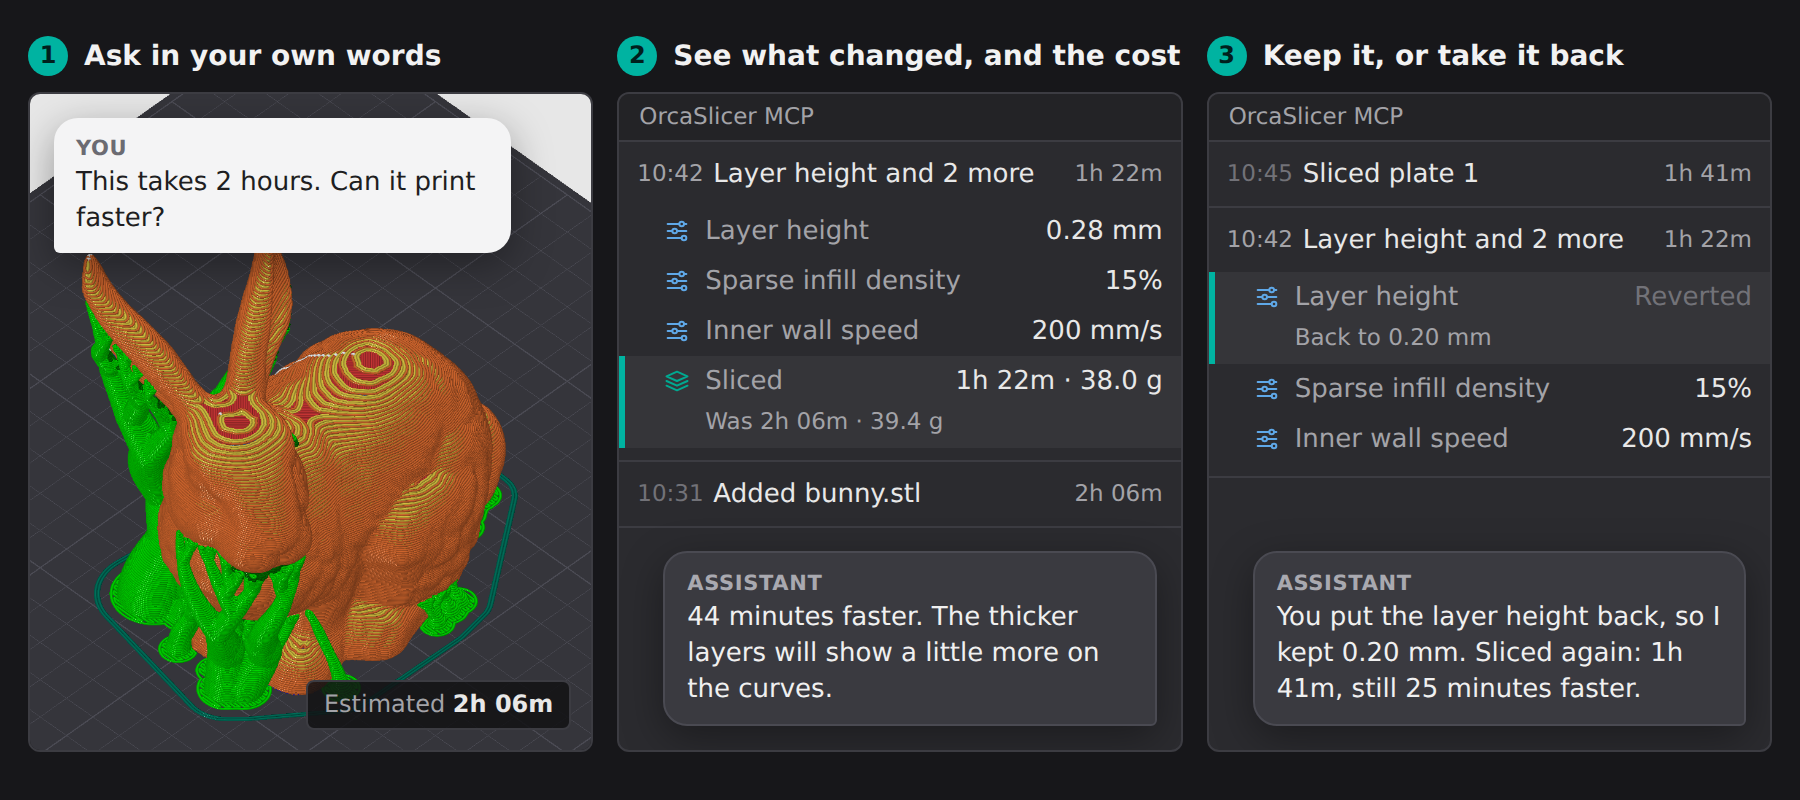
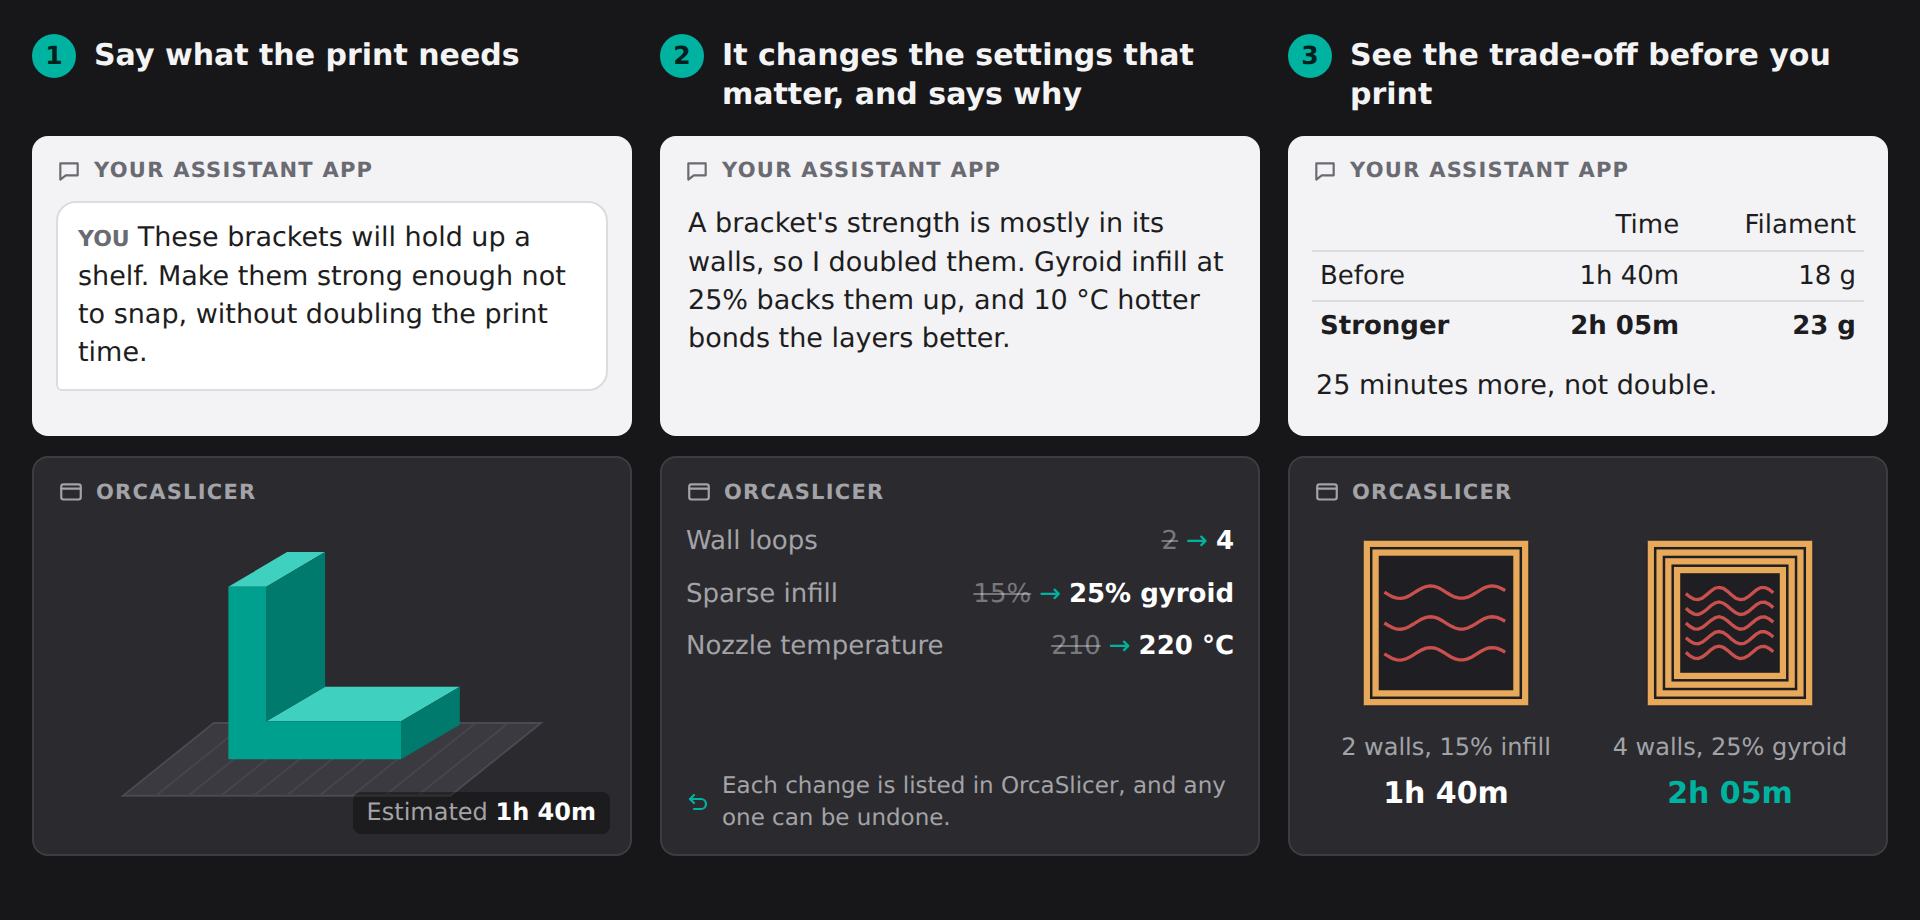
doc: second-pass story strip: two lanes, a real goal, the trade-off

diff --git a/README.md b/README.md
@@ -13,9 +13,9 @@
   <a href="LICENSE.txt"><img alt="License: AGPL-3.0" src="https://img.shields.io/badge/license-AGPL--3.0-555"></a>
 </p>
 
-<p align="center"><img src="doc/images/readme/story.png" alt="Three steps. 1: you ask 'This takes 2 hours. Can it print faster?' over the sliced model. 2: the panel in OrcaSlicer lists the changes (layer height 0.28 mm, sparse infill 15%, inner wall speed 200 mm/s) and the new slice, 1h 22m, was 2h 06m. 3: you revert the layer height, and the assistant keeps your choice and re-slices: 1h 41m."></p>
+<p align="center"><img src="doc/images/readme/story.png" alt="Three steps, each showing your assistant app above and OrcaSlicer below. 1: in the assistant app you write that the brackets will hold up a shelf and must not snap, without doubling the print time; OrcaSlicer shows the bracket, estimated 1h 40m. 2: the assistant explains that a bracket's strength is mostly in its walls; in OrcaSlicer wall loops go from 2 to 4, sparse infill from 15% to 25% gyroid, nozzle temperature from 210 to 220 °C, each change listed and undoable. 3: the assistant compares the two slices, 1h 40m and 18 g before, 2h 05m and 23 g stronger: 25 minutes more, not double."></p>
 
-This is the **OrcaSlicer MCP build**: [OrcaSlicer](https://github.com/OrcaSlicer/OrcaSlicer) 2.5.0 with two additions. A local API lets an AI assistant change settings, load and slice models, and read back the result, through the [orcaslicer-mcp](https://github.com/MaxEllis/orcaslicer-mcp) server. A panel beside the 3D view lists every change it makes, with a way to undo each one. Everything else is OrcaSlicer, rebuilt from the upstream release, and it uses your existing printers and presets.
+This is the **OrcaSlicer MCP build**: [OrcaSlicer](https://github.com/OrcaSlicer/OrcaSlicer) 2.5.0 with two additions. A local API lets an AI assistant, which you talk to in your usual AI app, change settings, load and slice models, and read back the result, through the [orcaslicer-mcp](https://github.com/MaxEllis/orcaslicer-mcp) server. A panel beside the 3D view lists every change it makes, with a way to undo each one. Everything else is OrcaSlicer, rebuilt from the upstream release, and it uses your existing printers and presets.
 
 Rather keep stock OrcaSlicer? The [plugin](https://github.com/MaxEllis/orcaslicer-mcp#two-ways-to-run-it) covers settings and presets.
 
